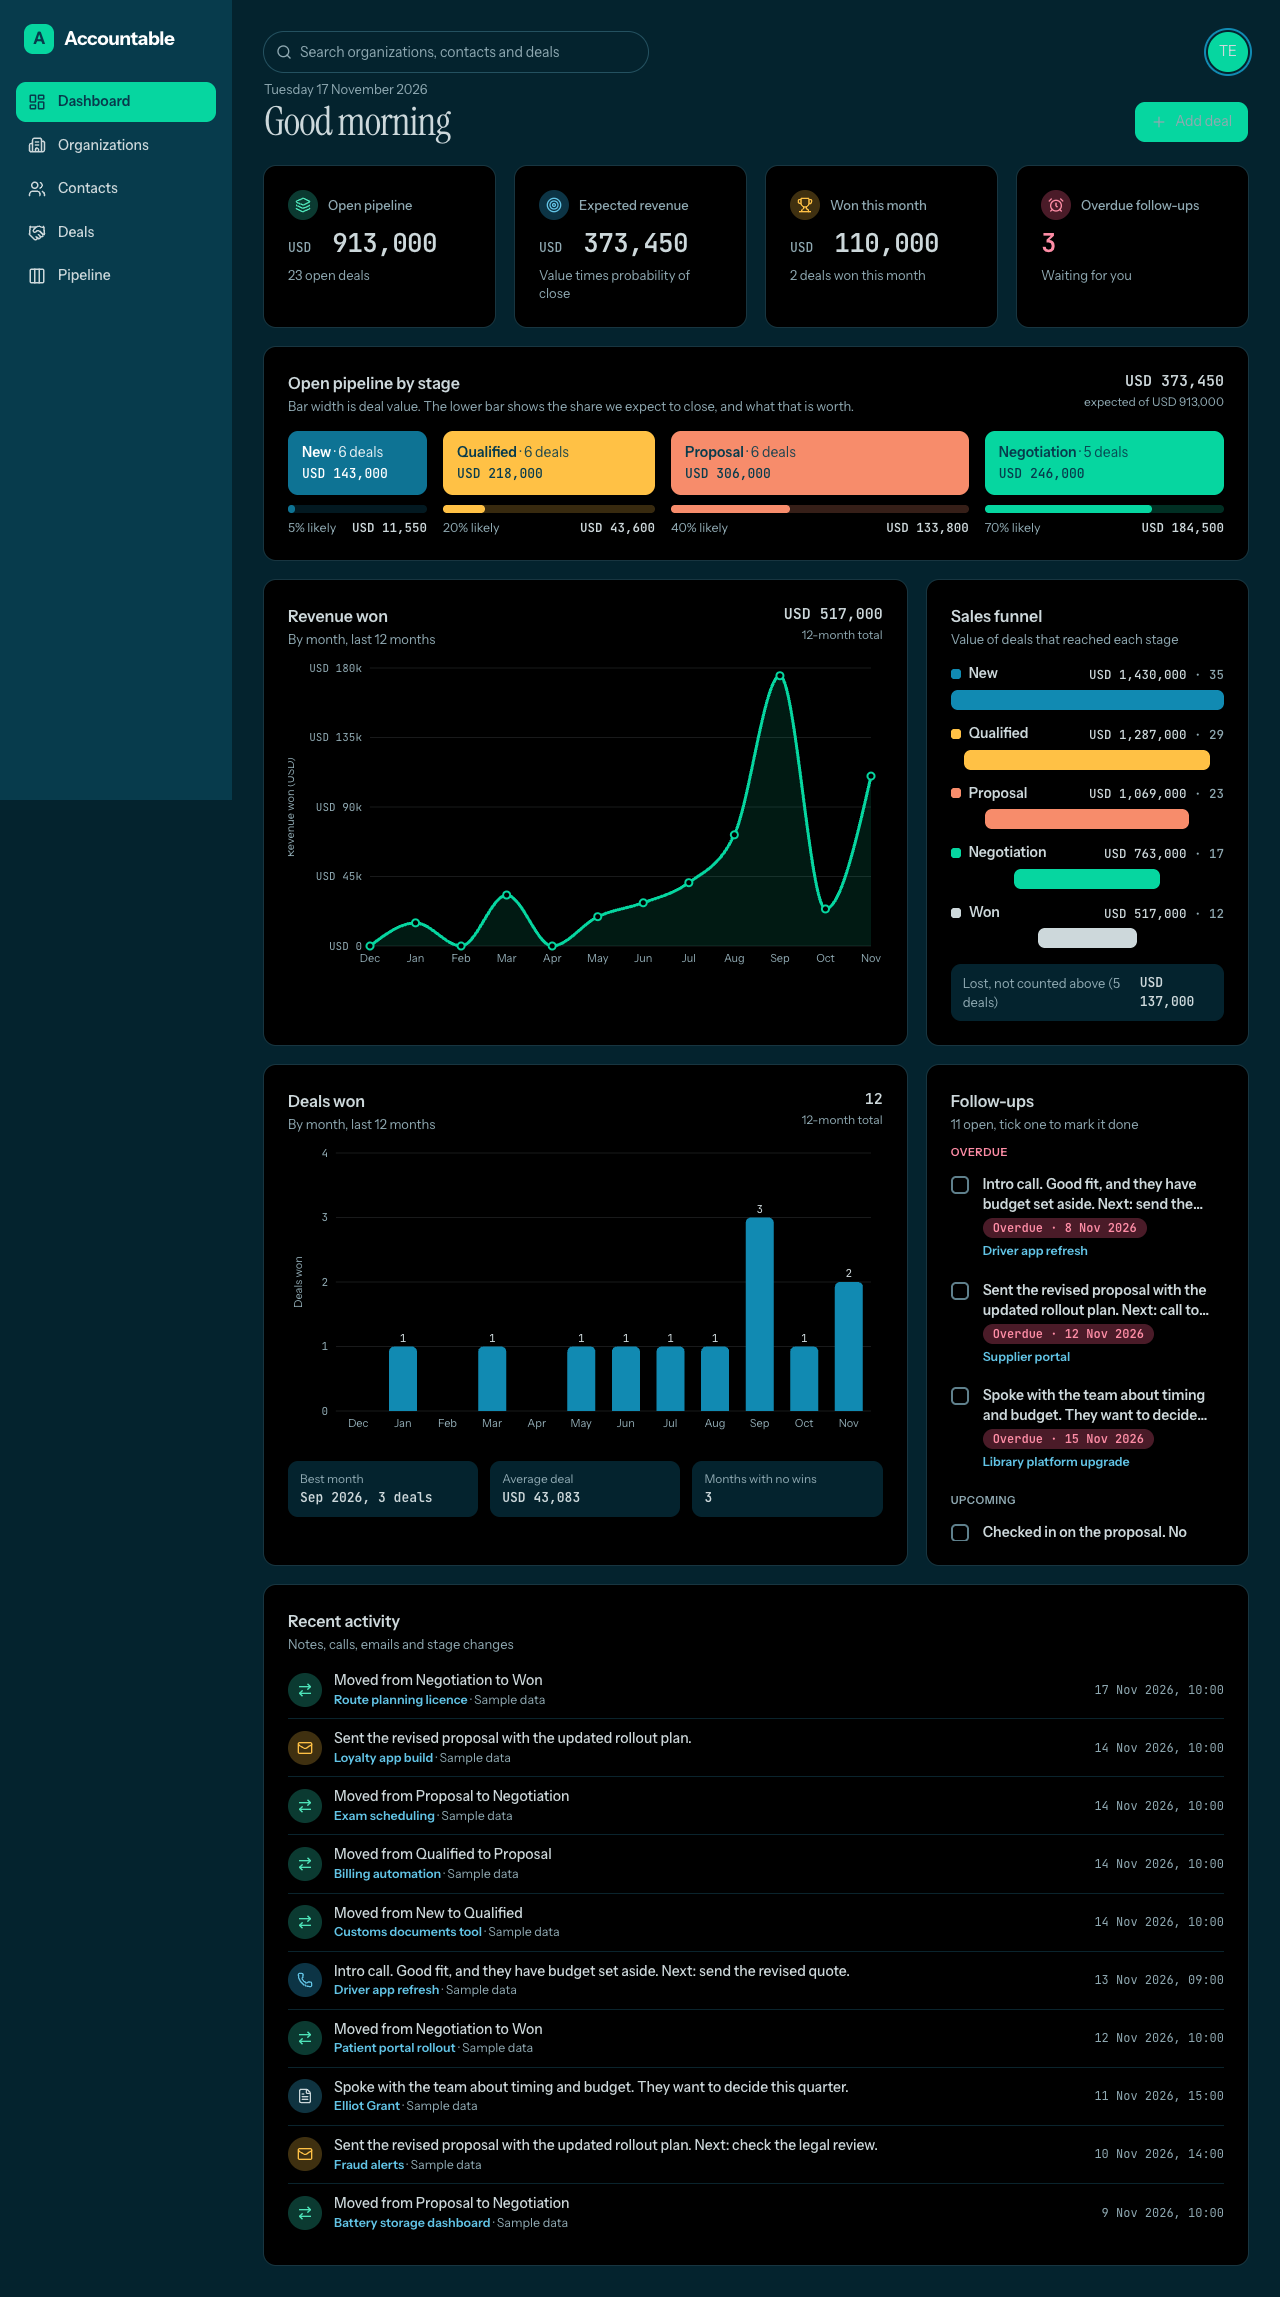
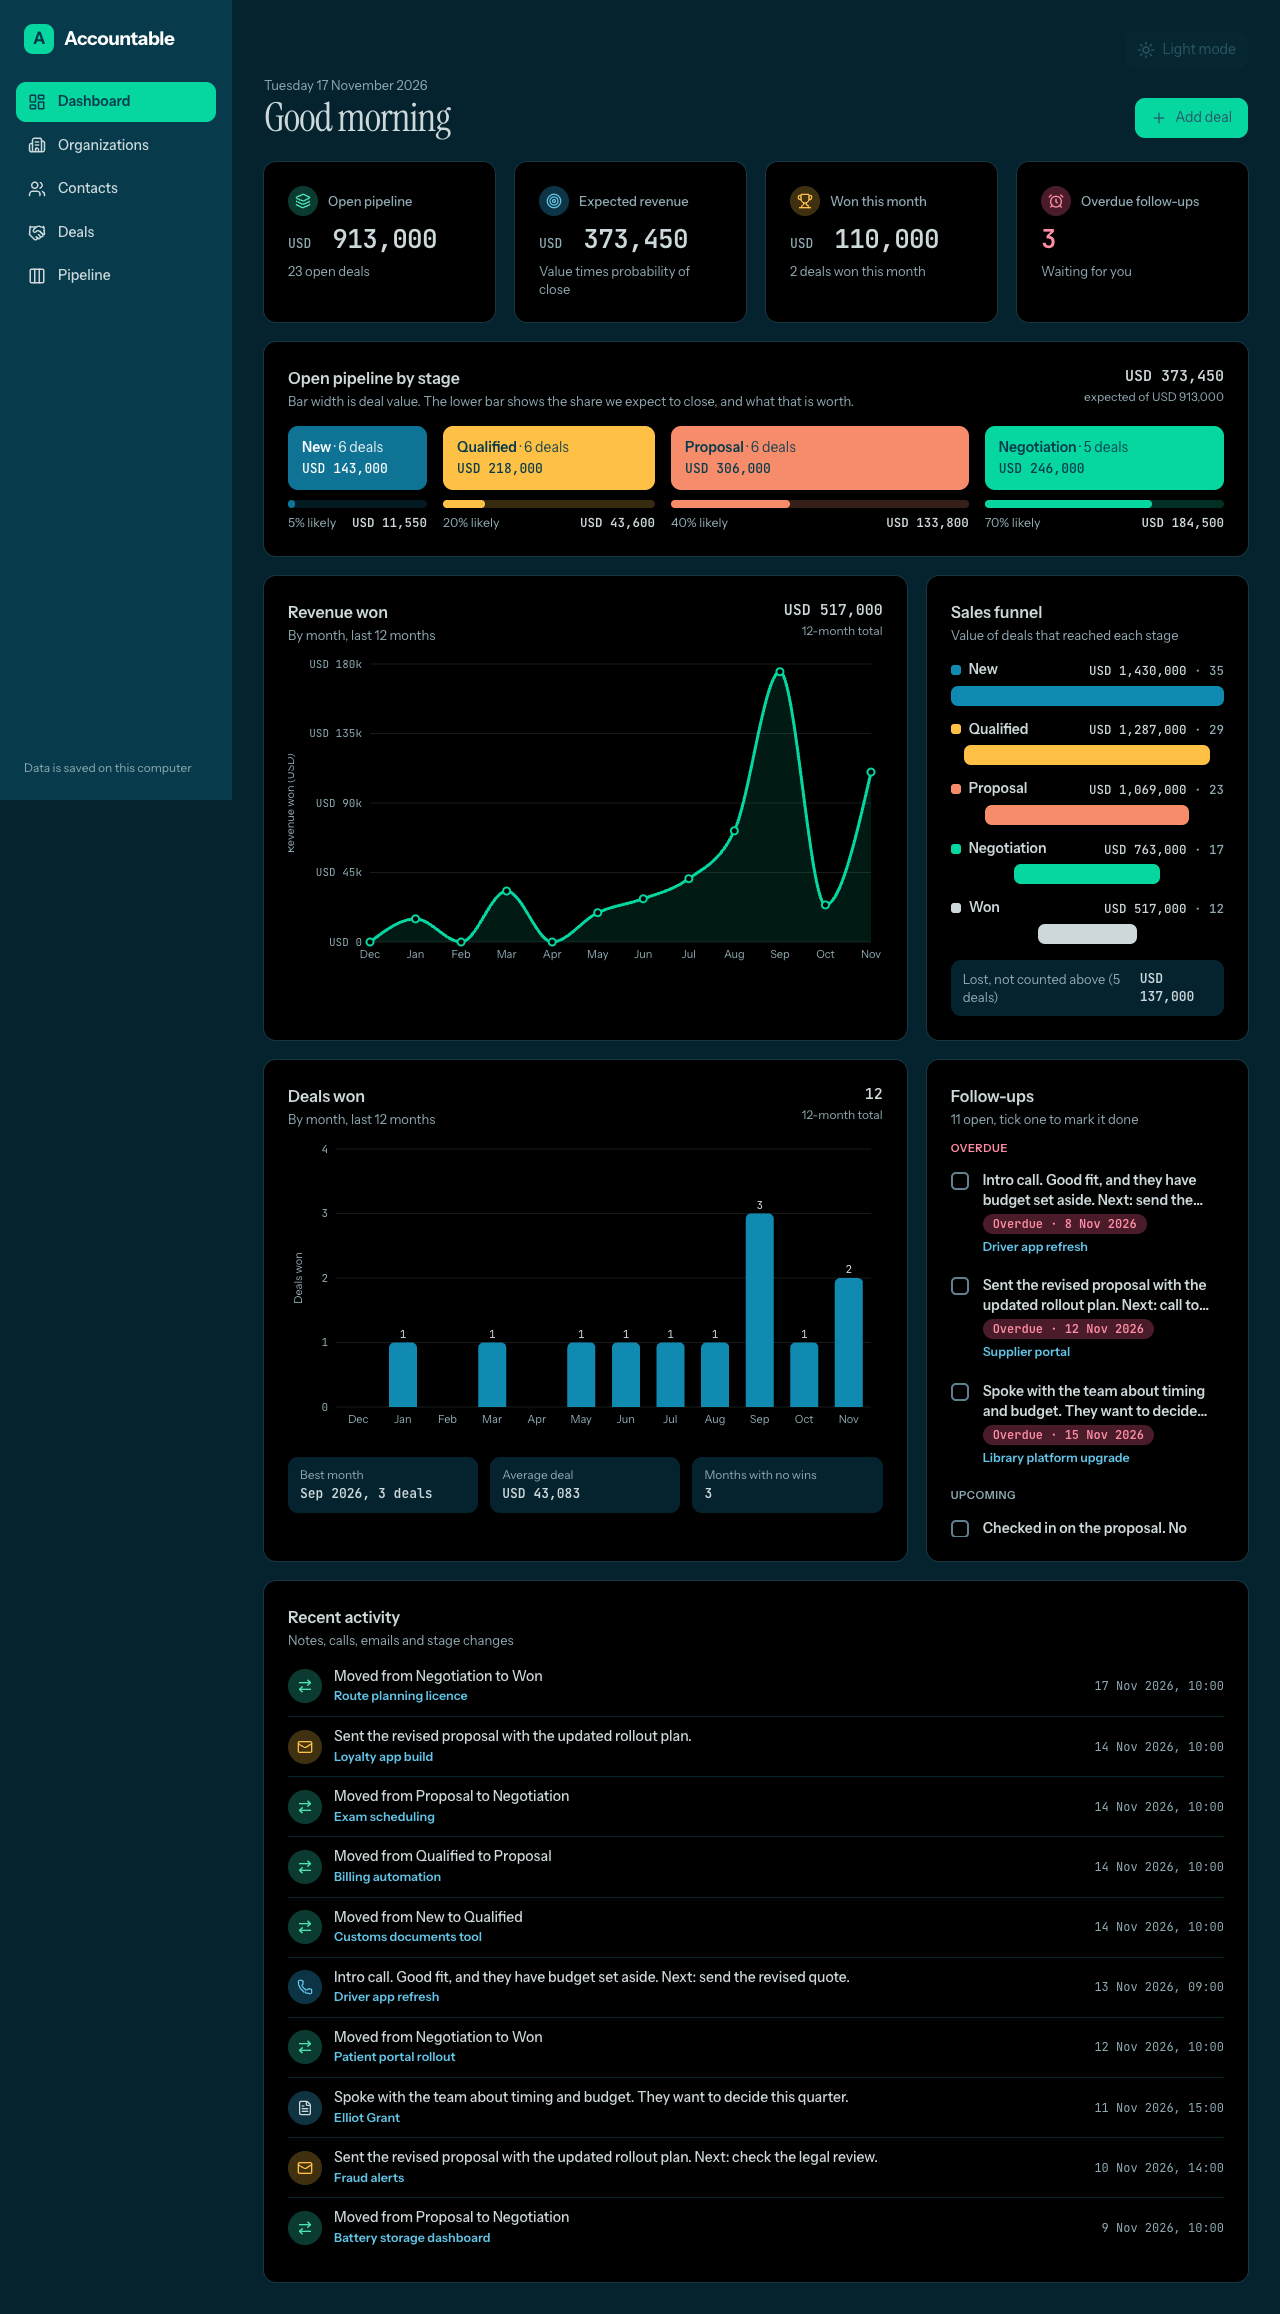
Review: fix findings from the branch review
- Remove the committed Supabase project ref from week1day5.md
- Lazy-import the test auth client so it stays out of the production bundle
- Cap the search query at 100 characters
- Restore the dark-mode screenshots and drop the unfinished block in week1day5.md

diff --git a/frontend/src/lib/config.ts b/frontend/src/lib/config.ts
@@ -1,4 +1,3 @@
-import { createTestAuth } from "./testAuth";
 import type { AuthClient } from "./auth";
 
 export type Config =
@@ -11,8 +10,12 @@ export async function fetchConfig(): Promise<Config> {
 }
 
 export async function createAuthClient(config: Config): Promise<AuthClient> {
-  if ("testAuth" in config) return createTestAuth();
-  // Loaded only when needed, so test mode never pulls in the Supabase client.
+  // Each client is loaded only when needed, so the production bundle never
+  // carries the test client and test mode never pulls in Supabase.
+  if ("testAuth" in config) {
+    const { createTestAuth } = await import("./testAuth");
+    return createTestAuth();
+  }
   const { createSupabaseAuth } = await import("./supabaseAuth");
   return createSupabaseAuth(config.supabaseUrl, config.supabasePublishableKey);
 }

diff --git a/backend/app/routes/search.py b/backend/app/routes/search.py
@@ -1,4 +1,4 @@
-from fastapi import APIRouter
+from fastapi import APIRouter, Query
 from pydantic import BaseModel
 from sqlalchemy import func, select
 
@@ -8,6 +8,7 @@ from ..db import contact, deal, get_engine, organization
 router = APIRouter(prefix="/search", tags=["search"])
 
 LIMIT = 5
+MAX_QUERY = 100
 ESCAPE = "\\"
 
 
@@ -93,7 +94,7 @@ def _deals(conn, pattern: str) -> list[SearchHit]:
 
 
 @router.get("", response_model=SearchResults)
-def search(q: str = ""):
+def search(q: str = Query("", max_length=MAX_QUERY)):
     text = q.strip()
     if not text:
         return SearchResults(organizations=[], contacts=[], deals=[])

diff --git a/docs/STATUS.md b/docs/STATUS.md
@@ -25,6 +25,8 @@ The MVP is built, phases 0 to 8 of `docs/changes/mvp/plan.md`. The multi-user ch
 - **Multi-user, Phase 2** (`docs/changes/multi-user/`): a search box in the top bar, left of the user menu. `GET /search?q=` (`backend/app/routes/search.py`) returns up to 5 organizations, contacts and deals matching the text anywhere in the name, ignoring case, the same on SQLite and Postgres. The box (`SearchBox.tsx`, `lib/search.ts`) waits 250 ms after typing, shows the results in three groups with a context line each (industry, organization, "Organization · Stage"), and the arrow keys wrap across groups. Tests: `test_search.py`, `SearchBox.test.tsx` and `e2e/search.spec.ts`. Spec: `docs/specs/search.md`.
 - **Multi-user, Phase 3** (`docs/changes/multi-user/`): the user menu (`UserMenu.tsx`, a Radix dropdown in `TopBar.tsx`) replaces the theme button and the temporary Sign out. A button with the person's initials opens a menu with their email, **Light**, **Dark** and **System** (System follows the device and is the default, and changes with it while the app is open) and **Sign out**. The sign-in screen follows the saved theme too. `ThemeToggle` is deleted. Tests: `UserMenu.test.tsx`, `theme.test.ts` and `e2e/menu.spec.ts`, with `e2e/theme.spec.ts` and `e2e/look.spec.ts` choosing the theme in the menu. `.claude/agents/ui-check.md` now starts the app with the test sign-in on a temporary database, signs in as the test person and changes the theme through the menu.
 
+- **Multi-user, review fixes**: the branch review (`reviewer` subagent) found one Important and four nits, all fixed except one. The test sign-in client is now lazy-imported, so its test password stays out of the production bundle. The search query is capped at 100 characters. A project ref that had been committed in the course instructions is removed (it is still in git history), and out-of-scope changes (the dark-mode screenshots, an unfinished block in `week1day5.md`) are reverted. Left as is: the `onKeyDown` on search options looks unused, but the `jsx-a11y/click-events-have-key-events` rule requires it. The plan's Proof line "two people editing the same record" has no test of exactly that name; `test_edit_changes_updated_by_and_not_created_by` covers most of it.
+
 ## How to run
 
 You need Node 24 or later and uv. The first run needs internet to fetch packages, and the app needs internet to reach Supabase.

diff --git a/course/instructions/week1day5.md b/course/instructions/week1day5.md
@@ -99,9 +99,6 @@ Supabase's MCP server lets your agent look at your project. Connect it read-only
 
 ```
 claude mcp add --transport http supabase "https://mcp.supabase.com/mcp?project_ref=abcdefghijklmnopqrst&read_only=true"
-
-claude mcp add --transport http supabase "https://mcp.supabase.com/mcp?project_ref=tviqtobgkikxqgvsbaml&read_only=true"
-
 ```
 
 3. Restart Claude Code (`/exit`, then `claude`). Type `/mcp`, choose **supabase**, then **Authenticate**, and sign in to Supabase in the browser.
@@ -203,12 +200,6 @@ Start a fresh session (`/clear` in Claude Code), then:
 ```
 Implement docs/changes/multi-user/plan.md, following its order of work. Write the tests in its Proof section and run them as you go. Leave the commits to me.
 ```
-
-```
-or 
-Create an agent team to implement docs/changes/multi-user/plan.md, following its order of work, with one teammate for each part in its Files that change. Each teammate edits only its own files. Have them write the tests in the plan's Proof section and run them as they go. Only one teammate at a time runs npm run check or the end-to-end tests, because they use fixed ports. If a test times out while other checks are running, rerun it on its own before treating it as a failure. Leave the commits to me.
-```
-
 
 ```
 git add .
